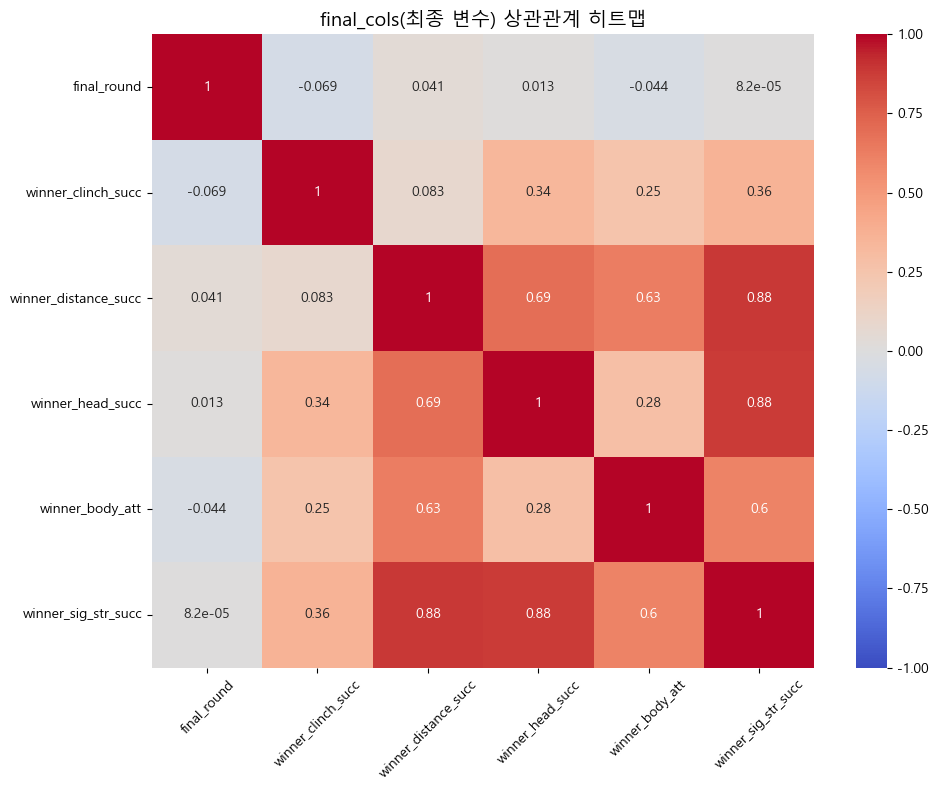
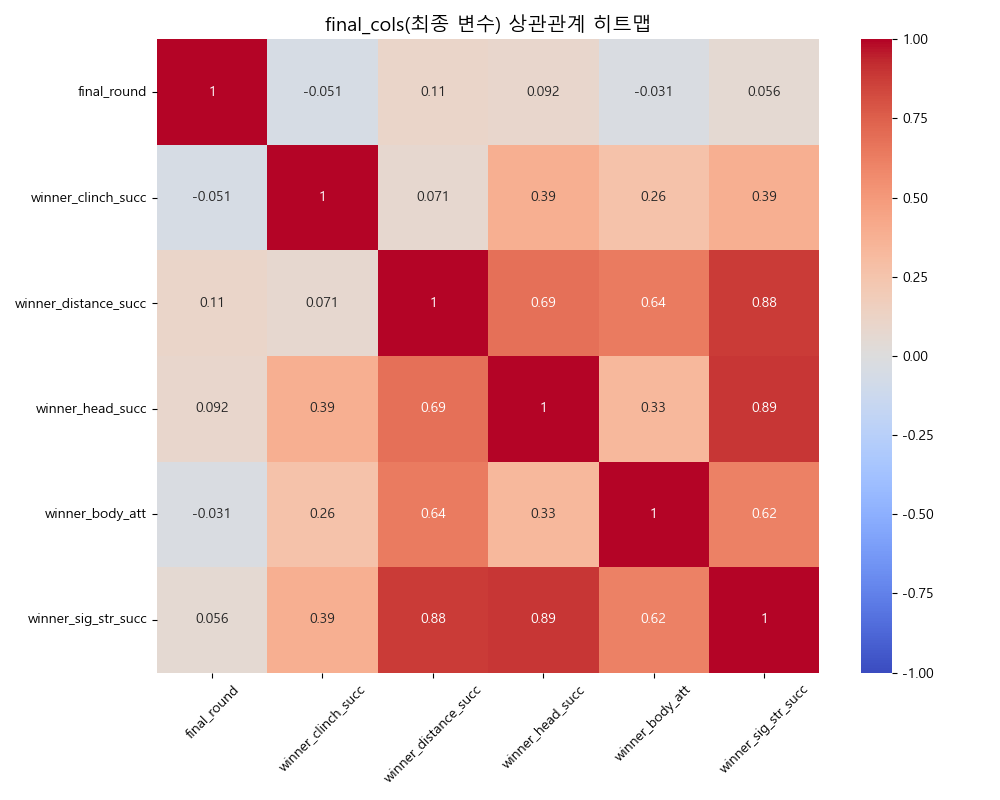
히트맵 수정

diff --git a/randomforest.py b/randomforest.py
@@ -185,7 +185,7 @@ plt.show()
 plt.figure(figsize=(12, 10))
 
 sns.heatmap(
-    df[union_vars].corr(),
+    df_200[union_vars].corr(),
     annot=True,
     fmt=".2f",
     cmap="coolwarm",
@@ -263,7 +263,7 @@ final_cols.remove("winner_clinch_att")
 print(final_cols)
 
 plt.figure(figsize=(10, 8))
-sns.heatmap(df[final_cols].corr(), annot=True, cmap="coolwarm", vmin=-1, vmax=1)
+sns.heatmap(df_200[final_cols].corr(), annot=True, cmap="coolwarm", vmin=-1, vmax=1)
 
 
 plt.title("final_cols(최종 변수) 상관관계 히트맵", fontsize=14)
